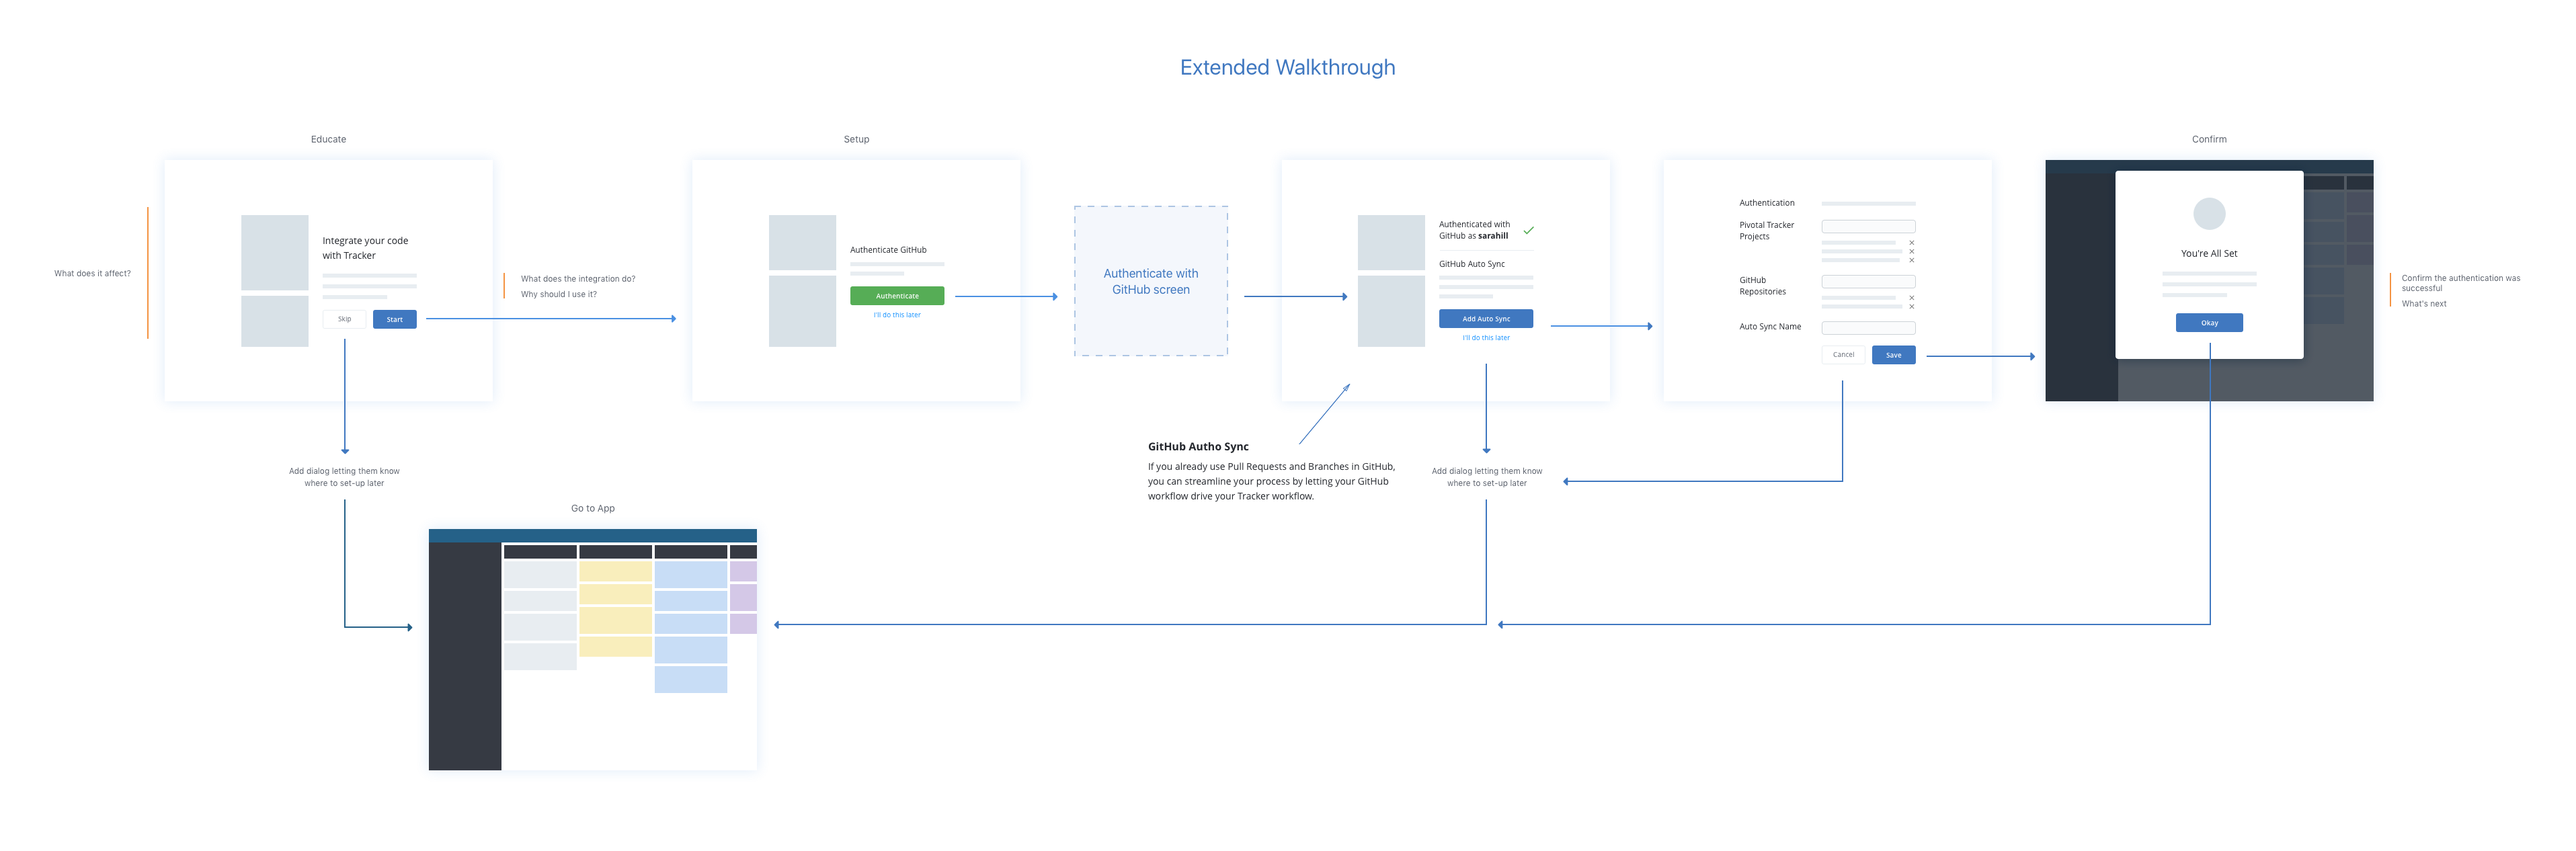
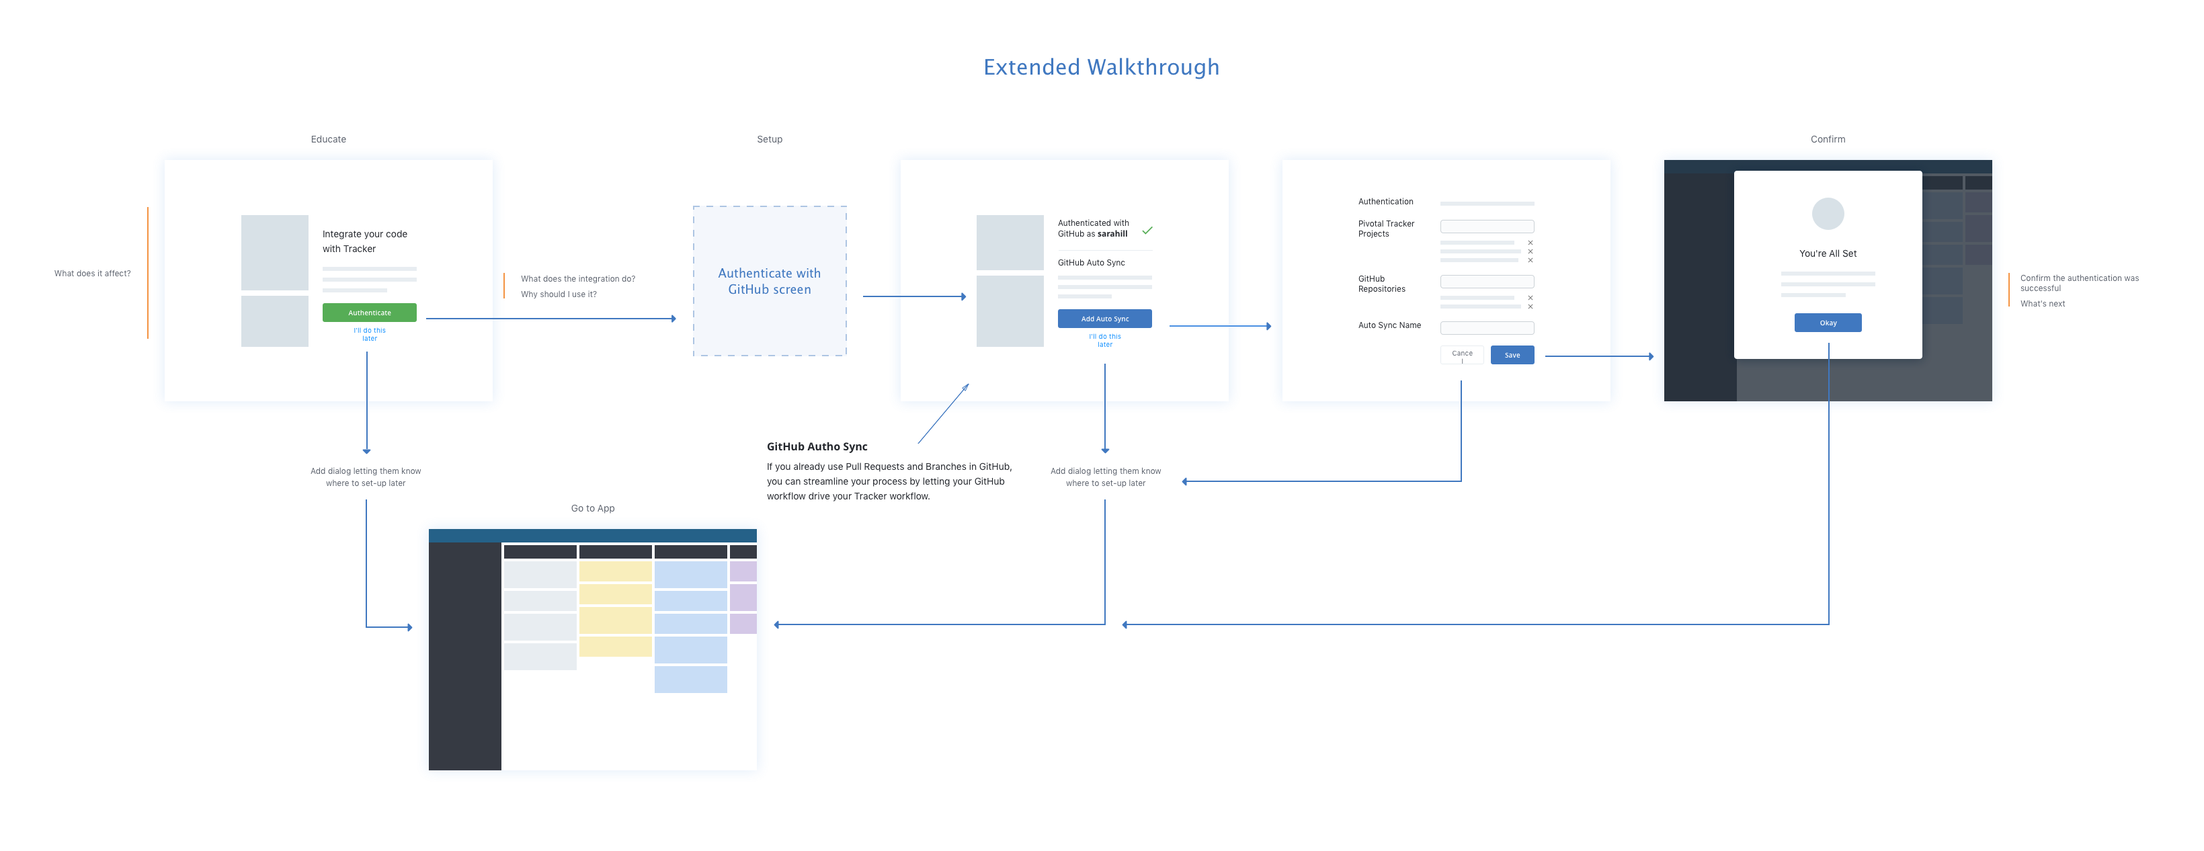
updating work

diff --git a/onboarding.html b/onboarding.html
@@ -1,0 +1,58 @@
+<!DOCTYPE html>
+<html lang="en">
+  <head>
+    <meta charset="utf-8">
+    <meta http-equiv="X-UA-Compatible" content="IE=Edge">
+    <title>Sara Hill, Product Design and Illustration</title>
+    <meta name="author" content="Sara Hill">
+    <meta name="description" content="Sara Hill, Product Design and Illustration">
+    <meta name="viewport" content="width=device-width, initial-scale=1">
+
+    <link rel="stylesheet" href="sarahill.css"/>
+    <link rel="stylesheet" href="https://unpkg.com/tachyons@4.8.0/css/tachyons.min.css"/>
+  </head>
+  <body class="system-sans-serif">
+    <div class="mw10 ph5-m ph3 pt6-sm pt2">
+      <header>
+        <a href="index.html" class="db no-underline dim near-black">
+          <h1 class="site-title title-small dib mb0 f3">Hi, I'm Sara.</h1>
+          <h2 class="mt0 f5 fw4">Product Design and Illustration</h2>
+        </a>
+      </header>
+    </div>
+    <div class="mw7 center ph5-m ph4-sm ph3 pt6-sm pt5 lh-copy">
+      <h1 class="mb0 black-80">On-boarding Integrations</h1>
+      <h2 class="f4 fw4 black-60 mt0">Design and exploration for on-boarding the Pivotal Tracker GitHub integration</h2>
+      <h2 class="f5 fw4 black-60 mt0 pv3 bt b--light-silver">UX Design, A/B testing, Concept Testing, Wireframing, Design Lead</h2>
+      <div class="mt5">
+        <h3 class="mb0 black-60">Overview</h3>
+        <p class="lh-copy black-80">When we released our updated GitHub integration in beta earlier this year, we added the ability to push code to Tracker using a story's ID and see the status of your code inside of a story. Users now had a more seemless code to story relationship that didn't interrupt their flow.
+        </p>
+        <p class="lh-copy black-80">The problem? Adoption was low. We found that users either didn't notice the feature at all, or they would authenticate with GitHub but not go any further.
+        </p>
+      </div>
+    </div>
+    <img class="mt4" src="images/simple-walkthrough@2x.png" alt="Code exploration within a story">
+    <img class="mt4" src="images/extended-walkthrough@2x.png" alt="Code exploration within a story">
+
+    <footer class="mw7 center ph5-m ph4-sm ph3 pv6-sm pv5">
+      <h1 class="f6 black-60">Find me elsewhere</h1>
+      <ul class="list pl0">
+        <li class="dib mr3"><a href="https://www.linkedin.com/in/sarashill" class="link bb dim black-90">LinkedIn</a></li>
+        <li class="dib mr3"><a href="https://twitter.com/sarahill22" class="link bb dim black-90">Twitter</a></li>
+        <li class="dib mr3"><a href="https://dribbble.com/sarahill" class="link bb dim black-90">Dribbble</a></li>
+        <li class="dib mr3"><a href="https://www.github.com/sarahill" class="link bb dim black-90">GitHub</a></li>
+      </ul>
+    </footer>
+
+    <!-- Global Site Tag (gtag.js) - Google Analytics -->
+    <script async src="https://www.googletagmanager.com/gtag/js?id=UA-107387067-1"></script>
+    <script>
+      window.dataLayer = window.dataLayer || [];
+      function gtag(){dataLayer.push(arguments)};
+      gtag('js', new Date());
+
+      gtag('config', 'UA-107387067-1');
+    </script>
+  </body>
+</html>

diff --git a/index.html b/index.html
@@ -25,9 +25,10 @@
     <div class="mw8 center ph5-m ph4-sm ph3 pt3">
       <h1 class="f6 black-60">Selected work</h1>
       <ul class="list pl0 lh-copy">
-        <li class="mv3"><a class="dib work-item f4 db no-underline dim near-black" href="tracksuit.html">Pivotal Tracker Tracksuit</a></li>
-        <li class="mv3"><a class="dib work-item f4 db no-underline dim near-black" href="ghintegration.html">Pivotal Tracker GitHub Integration</a></li>
+        <li class="mv3"><a class="dib work-item f4 db no-underline dim near-black" href="ghintegration.html">The Code to Story Relationship</a></li>
+        <!-- <li class="mv3"><a class="dib work-item f4 db no-underline dim near-black" href="onboarding.html">On-boarding Integrations</a></li> -->
         <li class="mv3"><a class="dib work-item f4 db no-underline dim near-black" href="galleryapp.html">Kapost Gallery App</a></li>
+        <li class="mv3"><a class="dib work-item f4 db no-underline dim near-black" href="tracksuit.html">Pivotal Tracker Tracksuit</a></li>
         <li class="mv3"><a class="dib work-item dribbble f4 db no-underline dim near-black" href="https://dribbble.com/sarahill">See more of my work on Dribbble</a></li>
       </ul>
     </div>

diff --git a/ghintegration.html b/ghintegration.html
@@ -21,8 +21,9 @@
       </header>
     </div>
     <div class="mw7 center ph5-m ph4-sm ph3 pt6-sm pt5 lh-copy">
-      <h1 class="mb0 black-80">GitHub Integration, Pivotal Tracker</h1>
-      <h2 class="f5 fw4 black-60 mt0">UX Design, Interviews, Concept Testing, Wireframing, Prototyping, Design Lead</h2>
+      <h1 class="mb0 black-80">The Code to Story Relationship</h1>
+      <h2 class="f4 fw4 black-60 mt0">Designing the GitHub integration for Pivotal Tracker</h2>
+      <h2 class="f5 fw4 black-60 mt0 pv3 bt b--light-silver">UX Design, Interviews, Concept Testing, Wireframing, Prototyping, Design Lead</h2>
       <div class="mt5">
         <h3 class="mb0 black-60">Overview</h3>
         <p class="lh-copy black-80">Pivotal Tracker is an agile product management tool that helps small cross-functional teams stay on top of their work and deliver more frequently and consistently.
